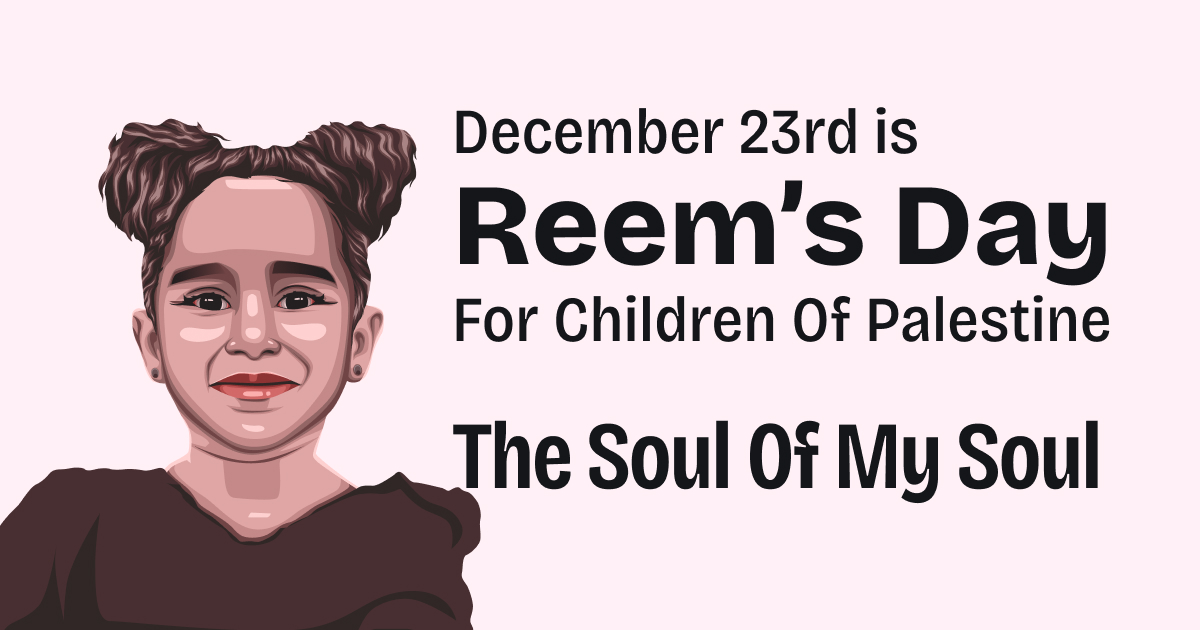
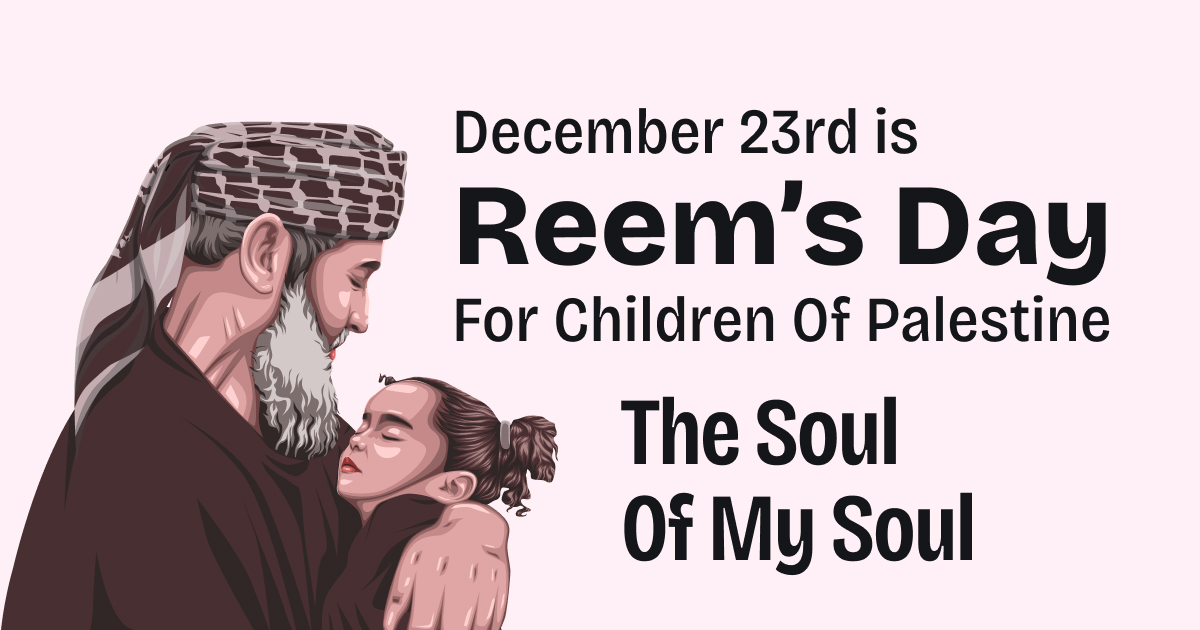
deploy: ef28e60fce60ba78b9135c69656cd2047bc45cb7

Changed region(s): [[0.0308, 0.181, 0.925, 1.0], [0.0, 0.7841, 0.0308, 0.9952], [0.1233, 0.9952, 0.1542, 1.0]]

diff --git a/index.html b/index.html
@@ -57,7 +57,7 @@ h1 {
 }
 
 h2 {
-	font-size: 8rem;
+	font-size: 8.8rem;
 	font-weight: 600;
 	margin: 0;
 	line-height: 1.25;
@@ -100,8 +100,8 @@ article {
 	margin: 0;
 }
 
-.container > p > img {
-	margin-top: 2rem;
+.container > .row:first-child {
+	margin-top: 3.2rem;
 }
 
 .container > h2 {
@@ -181,13 +181,22 @@ article {
 
 		<main id="skip">
 			<div class="container">
-    <p><img src="/img/cover.png" alt="Tarek, Khaled and Reem"></p>
+    <div class="row">
+<div class="col">
+<h2 id="my-heart" tabindex="-1">My Heart <a class="is-hidden" href="#my-heart">#</a></h2>
+<h2 id="my-two-eyes" tabindex="-1">My Two Eyes <a class="is-hidden" href="#my-two-eyes">#</a></h2>
+<h2 id="the-soul" tabindex="-1">The Soul <a class="is-hidden" href="#the-soul">#</a></h2>
+<h2 id="of-my-soul" tabindex="-1">Of My Soul <a class="is-hidden" href="#of-my-soul">#</a></h2>
+</div>
+<div class="col">
+<p><img src="/img/khaled-reem.png" alt="Tarek, Khaled and Reem"></p>
+</div>
+</div>
 <h3 id="december-23rd-is-reem-s-day-for-children-of-palestine-and-also-her-and-her-grandfather-s-birthday" tabindex="-1">December 23rd is Reem's Day For Children Of Palestine and also her and her grandfather's birthday. <a class="is-hidden" href="#december-23rd-is-reem-s-day-for-children-of-palestine-and-also-her-and-her-grandfather-s-birthday">#</a></h3>
-<h2 id="my-heart-my-two-eyes-the-soul-of-my-soul-kn" tabindex="-1">My Heart, My Two Eyes…<br/>The Soul Of My Soul. —KN <a class="is-hidden" href="#my-heart-my-two-eyes-the-soul-of-my-soul-kn">#</a></h2>
 <p>On November 24th, 2023, an unannounced Israeli airstrike hit the home of Khaled Nabhan with his children and grandchildren inside. Lying beside their mother Maysa, siblings Reem Ali Badwan (aged 3) and Tarek (aged 5) were trapped alive under the rubble before they died. Their last days under Israeli blockade and onslaught were days of constant struggle and deprivation.</p>
 <div class="row">
 <div class="col">
-<h3 id="give-to-children-s-aid-at-inara-org-and-savethechilden-org" tabindex="-1">&gt; Give to children's aid at <a href="https://www.instagram.com/inaraorg/">inara.org</a> and <a href="https://www.instagram.com/savethechildren">savethechilden.org</a> <a class="is-hidden" href="#give-to-children-s-aid-at-inara-org-and-savethechilden-org">#</a></h3>
+<h3 id="give-to-children-s-aid-at-pcrf-net-inara-org-and-savethechilden-org" tabindex="-1">&gt; Give to children's aid at <a href="https://www.pcrf.net/">pcrf.net</a>, <a href="https://www.instagram.com/inaraorg/">inara.org</a> and <a href="https://www.instagram.com/savethechildren">savethechilden.org</a> <a class="is-hidden" href="#give-to-children-s-aid-at-pcrf-net-inara-org-and-savethechilden-org">#</a></h3>
 <h3 id="call-for-de-escalation-and-ceasefire-5calls-org" tabindex="-1">&gt; Call for De-escalation and Ceasefire 📞 <a href="https://5calls.org/issue/israel-palestine-gaza-war-hamas-ceasefire/">5calls.org</a> <a class="is-hidden" href="#call-for-de-escalation-and-ceasefire-5calls-org">#</a></h3>
 </div>
 <div class="col">
@@ -197,13 +206,17 @@ article {
 <h1 id="reem-s-day" tabindex="-1">Reem's Day <img src="https://chart.googleapis.com/chart?cht=qr&chs=120x120&chl=https://reem.day/" class="pull-right hide-xs hide-sm hide-md hide-lg" /> <a class="is-hidden" href="#reem-s-day">#</a></h1>
 <div class="row hide-pr">
     <div class="col">
-        <p>Inara's mission is to fill in the gaps in access to life-altering services for children.</p>
-        <a class="button dark" href="https://www.inara.org/">inara.org</a>
+        <p>Palestinian Childrens Relief Fund has addressed humanitarian needs since 1991.</p>
+        <a class="button dark" href="https://www.pcrf.net/">pcrf.net</a>
     </div>
-    <div class="col">
-        <p>Save the Children is a leading non-profit that has transformed the lives of over 1M children.</p>
-        <a class="button dark" href="https://www.savethechildren.org/">savethechildren.org</a>
-    </div>
+<p><div class="col">
+<p>Inara's mission is to fill in the gaps in access to life-altering services for children.</p>
+<a class="button dark" href="https://www.inara.org/">inara.org</a>
+</div>
+<div class="col">
+<p>Save the Children is a leading non-profit that has transformed the lives of over 1M children.</p>
+<a class="button dark" href="https://www.savethechildren.org/">savethechildren.org</a>
+</div></p>
 </div>
 <div class="hide-pr">
 <h2 id="sources" tabindex="-1">Sources: <a class="is-hidden" href="#sources">#</a></h2>

diff --git a/blog/firstpost/index.html b/blog/firstpost/index.html
@@ -225,7 +225,7 @@ h1 {
 }
 
 h2 {
-	font-size: 8rem;
+	font-size: 8.8rem;
 	font-weight: 600;
 	margin: 0;
 	line-height: 1.25;
@@ -268,8 +268,8 @@ article {
 	margin: 0;
 }
 
-.container > p > img {
-	margin-top: 2rem;
+.container > .row:first-child {
+	margin-top: 3.2rem;
 }
 
 .container > h2 {

diff --git a/blog/fourthpost/index.html b/blog/fourthpost/index.html
@@ -225,7 +225,7 @@ h1 {
 }
 
 h2 {
-	font-size: 8rem;
+	font-size: 8.8rem;
 	font-weight: 600;
 	margin: 0;
 	line-height: 1.25;
@@ -268,8 +268,8 @@ article {
 	margin: 0;
 }
 
-.container > p > img {
-	margin-top: 2rem;
+.container > .row:first-child {
+	margin-top: 3.2rem;
 }
 
 .container > h2 {

diff --git a/blog/secondpost/index.html b/blog/secondpost/index.html
@@ -225,7 +225,7 @@ h1 {
 }
 
 h2 {
-	font-size: 8rem;
+	font-size: 8.8rem;
 	font-weight: 600;
 	margin: 0;
 	line-height: 1.25;
@@ -268,8 +268,8 @@ article {
 	margin: 0;
 }
 
-.container > p > img {
-	margin-top: 2rem;
+.container > .row:first-child {
+	margin-top: 3.2rem;
 }
 
 .container > h2 {

diff --git a/blog/thirdpost/index.html b/blog/thirdpost/index.html
@@ -225,7 +225,7 @@ h1 {
 }
 
 h2 {
-	font-size: 8rem;
+	font-size: 8.8rem;
 	font-weight: 600;
 	margin: 0;
 	line-height: 1.25;
@@ -268,8 +268,8 @@ article {
 	margin: 0;
 }
 
-.container > p > img {
-	margin-top: 2rem;
+.container > .row:first-child {
+	margin-top: 3.2rem;
 }
 
 .container > h2 {

diff --git a/404.html b/404.html
@@ -57,7 +57,7 @@ h1 {
 }
 
 h2 {
-	font-size: 8rem;
+	font-size: 8.8rem;
 	font-weight: 600;
 	margin: 0;
 	line-height: 1.25;
@@ -100,8 +100,8 @@ article {
 	margin: 0;
 }
 
-.container > p > img {
-	margin-top: 2rem;
+.container > .row:first-child {
+	margin-top: 3.2rem;
 }
 
 .container > h2 {

diff --git a/blog/index.html b/blog/index.html
@@ -58,7 +58,7 @@ h1 {
 }
 
 h2 {
-	font-size: 8rem;
+	font-size: 8.8rem;
 	font-weight: 600;
 	margin: 0;
 	line-height: 1.25;
@@ -101,8 +101,8 @@ article {
 	margin: 0;
 }
 
-.container > p > img {
-	margin-top: 2rem;
+.container > .row:first-child {
+	margin-top: 3.2rem;
 }
 
 .container > h2 {

diff --git a/resolution/index.html b/resolution/index.html
@@ -57,7 +57,7 @@ h1 {
 }
 
 h2 {
-	font-size: 8rem;
+	font-size: 8.8rem;
 	font-weight: 600;
 	margin: 0;
 	line-height: 1.25;
@@ -100,8 +100,8 @@ article {
 	margin: 0;
 }
 
-.container > p > img {
-	margin-top: 2rem;
+.container > .row:first-child {
+	margin-top: 3.2rem;
 }
 
 .container > h2 {

diff --git a/tags/another-tag/index.html b/tags/another-tag/index.html
@@ -58,7 +58,7 @@ h1 {
 }
 
 h2 {
-	font-size: 8rem;
+	font-size: 8.8rem;
 	font-weight: 600;
 	margin: 0;
 	line-height: 1.25;
@@ -101,8 +101,8 @@ article {
 	margin: 0;
 }
 
-.container > p > img {
-	margin-top: 2rem;
+.container > .row:first-child {
+	margin-top: 3.2rem;
 }
 
 .container > h2 {

diff --git a/tags/index.html b/tags/index.html
@@ -57,7 +57,7 @@ h1 {
 }
 
 h2 {
-	font-size: 8rem;
+	font-size: 8.8rem;
 	font-weight: 600;
 	margin: 0;
 	line-height: 1.25;
@@ -100,8 +100,8 @@ article {
 	margin: 0;
 }
 
-.container > p > img {
-	margin-top: 2rem;
+.container > .row:first-child {
+	margin-top: 3.2rem;
 }
 
 .container > h2 {

diff --git a/tags/number-2/index.html b/tags/number-2/index.html
@@ -58,7 +58,7 @@ h1 {
 }
 
 h2 {
-	font-size: 8rem;
+	font-size: 8.8rem;
 	font-weight: 600;
 	margin: 0;
 	line-height: 1.25;
@@ -101,8 +101,8 @@ article {
 	margin: 0;
 }
 
-.container > p > img {
-	margin-top: 2rem;
+.container > .row:first-child {
+	margin-top: 3.2rem;
 }
 
 .container > h2 {

diff --git a/tags/posts-with-two-tags/index.html b/tags/posts-with-two-tags/index.html
@@ -58,7 +58,7 @@ h1 {
 }
 
 h2 {
-	font-size: 8rem;
+	font-size: 8.8rem;
 	font-weight: 600;
 	margin: 0;
 	line-height: 1.25;
@@ -101,8 +101,8 @@ article {
 	margin: 0;
 }
 
-.container > p > img {
-	margin-top: 2rem;
+.container > .row:first-child {
+	margin-top: 3.2rem;
 }
 
 .container > h2 {
